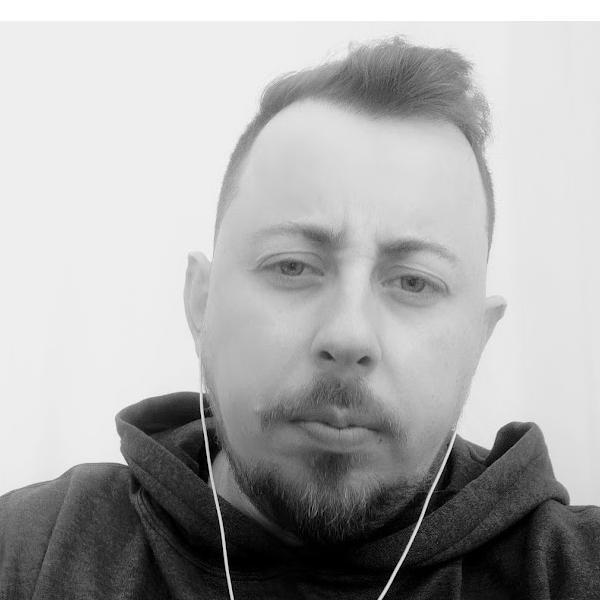
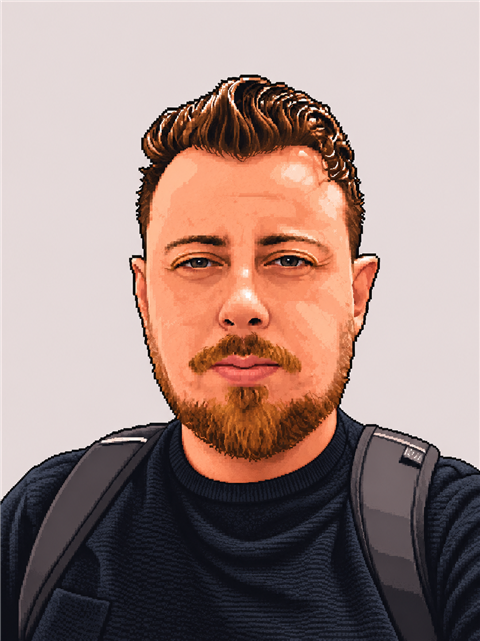
Refresh profile page design and photo
Replace the photo, rebuild the layout as a centered card with a blue
gradient avatar ring, Inter font, and styled social link buttons.

diff --git a/src/App.css b/src/App.css
@@ -1,31 +1,133 @@
+:root {
+  --bg: #0f1216;
+  --card: rgba(255, 255, 255, 0.04);
+  --border: rgba(255, 255, 255, 0.08);
+  --text: #f2f4f5;
+  --muted: #8b949e;
+  --accent: #3b82f6;
+  --accent-soft: rgba(59, 130, 246, 0.18);
+}
+
 .App {
+  position: relative;
+  min-height: 100vh;
+  display: flex;
+  align-items: center;
+  justify-content: center;
+  padding: 24px;
+  box-sizing: border-box;
+  overflow: hidden;
+  background:
+    radial-gradient(circle at 20% 10%, rgba(59, 130, 246, 0.12), transparent 40%),
+    radial-gradient(circle at 85% 90%, rgba(34, 211, 238, 0.08), transparent 45%),
+    var(--bg);
+  color: var(--text);
   text-align: center;
 }
 
-.App-logo {
-  height: 40vmin;
+.App-glow {
+  position: absolute;
+  width: 420px;
+  height: 420px;
+  border-radius: 50%;
+  background: var(--accent);
+  filter: blur(140px);
+  opacity: 0.12;
   pointer-events: none;
 }
 
-@media (prefers-reduced-motion: no-preference) {
-  .App-logo {
-    animation: App-logo-spin infinite 20s linear;
-  }
-}
-
-.App-header {
-  background-color: #282c34;
-  min-height: 100vh;
+.App-card {
+  position: relative;
   display: flex;
   flex-direction: column;
   align-items: center;
-  justify-content: center;
-  font-size: calc(10px + 2vmin);
-  color: white;
+  width: 100%;
+  max-width: 380px;
+  padding: 48px 32px 40px;
+  border: 1px solid var(--border);
+  border-radius: 24px;
+  background: var(--card);
+  backdrop-filter: blur(12px);
+  -webkit-backdrop-filter: blur(12px);
+  box-shadow: 0 24px 60px rgba(0, 0, 0, 0.45);
+  animation: fade-up 0.7s ease-out both;
+}
+
+.App-avatar {
+  width: 176px;
+  height: 176px;
+  padding: 4px;
+  border-radius: 50%;
+  background: conic-gradient(from 140deg, var(--accent), #22d3ee, #6366f1, var(--accent));
+  box-shadow: 0 0 0 8px var(--accent-soft);
+  transition: transform 0.3s ease;
+}
+
+.App-avatar:hover {
+  transform: scale(1.03);
+}
+
+.App-avatar img {
+  display: block;
+  width: 100%;
+  height: 100%;
+  border-radius: 50%;
+  border: 4px solid var(--bg);
+  box-sizing: border-box;
+  object-fit: cover;
+  object-position: 50% 22%;
+  background: #e4dfe0;
+}
+
+.App-name {
+  margin: 28px 0 6px;
+  font-size: 1.6rem;
+  font-weight: 700;
+  letter-spacing: -0.02em;
+  line-height: 1.2;
+}
+
+.App-handle {
+  margin: 0;
+  font-size: 0.95rem;
+  color: var(--muted);
+}
+
+.App-links {
+  display: flex;
+  gap: 14px;
+  margin-top: 28px;
 }
 
 .App-link {
-  color: #009966;
-  margin: 0 10px;
-  font-size: 20px;
+  display: flex;
+  align-items: center;
+  justify-content: center;
+  width: 48px;
+  height: 48px;
+  border-radius: 14px;
+  border: 1px solid var(--border);
+  background: rgba(255, 255, 255, 0.03);
+  color: var(--text);
+  font-size: 24px;
+  transition: color 0.2s, background 0.2s, border-color 0.2s, transform 0.2s;
+}
+
+.App-link:hover,
+.App-link:focus-visible {
+  color: var(--accent);
+  background: var(--accent-soft);
+  border-color: var(--accent);
+  transform: translateY(-3px);
+  outline: none;
+}
+
+@keyframes fade-up {
+  from { opacity: 0; transform: translateY(16px); }
+  to { opacity: 1; transform: none; }
+}
+
+@media (prefers-reduced-motion: reduce) {
+  .App-card { animation: none; }
+  .App-avatar, .App-link { transition: none; }
 }

diff --git a/src/App.js b/src/App.js
@@ -1,65 +1,39 @@
 import { AiOutlineGithub, AiFillLinkedin, AiFillInstagram } from 'react-icons/ai';
-import ReactRoundedImage from "react-rounded-image";
-import { IconContext } from "react-icons";
 import photo from './photo.png';
 import './App.css';
 
+const links = [
+  { href: 'https://gist.github.com/steniols/', label: 'GitHub', Icon: AiOutlineGithub },
+  { href: 'https://www.linkedin.com/in/stenio-leopoldo-de-souza-2b635199/', label: 'LinkedIn', Icon: AiFillLinkedin },
+  { href: 'https://www.instagram.com/steniols/', label: 'Instagram', Icon: AiFillInstagram },
+];
+
 function App() {
-
-  // const photo = require("./photo.jpg");
-
   return (
     <div className="App">
-      <header className="App-header">
-        <ReactRoundedImage 
-          image={photo} 
-          roundedColor="#009966"
-          imageWidth="180"
-          imageHeight="180"
-          roundedSize="4"
-          borderRadius="180"/>
-        <p>
-         Stenio Leopoldo de Souza
-        </p>
-        <div class="App-links">
-          <a
-            className="App-link"
-            href="https://gist.github.com/steniols/"
-            target="_blank"
-            rel="noopener noreferrer"
-          >
-          <IconContext.Provider value={{ style: { fontSize: '25px' } }}>
-            <>
-              <AiOutlineGithub />
-            </>
-          </IconContext.Provider> 
-          </a>
-          <a
-            className="App-link"
-            href="https://www.linkedin.com/in/stenio-leopoldo-de-souza-2b635199/"
-            target="_blank"
-            rel="noopener noreferrer"
-          >
-          <IconContext.Provider value={{ style: { fontSize: '25px' } }}>
-            <>
-              <AiFillLinkedin />
-            </>
-          </IconContext.Provider>
-          </a>
-          <a
-            className="App-link"
-            href="https://www.instagram.com/steniols/"
-            target="_blank"
-            rel="noopener noreferrer"
-          >
-          <IconContext.Provider value={{ style: { fontSize: '25px' } }}>
-          <>
-              <AiFillInstagram />
-            </>
-            </IconContext.Provider>
-          </a>
+      <div className="App-glow" aria-hidden="true" />
+      <main className="App-card">
+        <div className="App-avatar">
+          <img src={photo} alt="Stenio Leopoldo de Souza" />
         </div>
-      </header>
+        <h1 className="App-name">Stenio Leopoldo de Souza</h1>
+        <p className="App-handle">@steniols</p>
+        <nav className="App-links">
+          {links.map(({ href, label, Icon }) => (
+            <a
+              key={label}
+              className="App-link"
+              href={href}
+              target="_blank"
+              rel="noopener noreferrer"
+              aria-label={label}
+              title={label}
+            >
+              <Icon />
+            </a>
+          ))}
+        </nav>
+      </main>
     </div>
   );
 }

diff --git a/public/index.html b/public/index.html
@@ -1,13 +1,13 @@
 <!DOCTYPE html>
-<html lang="en">
+<html lang="pt-BR">
   <head>
     <meta charset="utf-8" />
     <link rel="icon" href="%PUBLIC_URL%/favicon.ico" />
     <meta name="viewport" content="width=device-width, initial-scale=1" />
-    <meta name="theme-color" content="#000000" />
+    <meta name="theme-color" content="#0f1216" />
     <meta
       name="description"
-      content="Web site created using create-react-app"
+      content="Stenio Leopoldo de Souza - links"
     />
     <link rel="apple-touch-icon" href="%PUBLIC_URL%/logo192.png" />
     <!--
@@ -24,7 +24,10 @@
       work correctly both with client-side routing and a non-root public URL.
       Learn how to configure a non-root public URL by running `npm run build`.
     -->
-    <title>steniols</title>
+    <link rel="preconnect" href="https://fonts.googleapis.com" />
+    <link rel="preconnect" href="https://fonts.gstatic.com" crossorigin />
+    <link href="https://fonts.googleapis.com/css2?family=Inter:wght@400;600;700&display=swap" rel="stylesheet" />
+    <title>Stenio Leopoldo de Souza</title>
   </head>
   <body>
     <noscript>You need to enable JavaScript to run this app.</noscript>

diff --git a/src/index.css b/src/index.css
@@ -1,6 +1,6 @@
 body {
   margin: 0;
-  font-family: -apple-system, BlinkMacSystemFont, 'Segoe UI', 'Roboto', 'Oxygen',
+  font-family: 'Inter', -apple-system, BlinkMacSystemFont, 'Segoe UI', 'Roboto', 'Oxygen',
     'Ubuntu', 'Cantarell', 'Fira Sans', 'Droid Sans', 'Helvetica Neue',
     sans-serif;
   -webkit-font-smoothing: antialiased;
